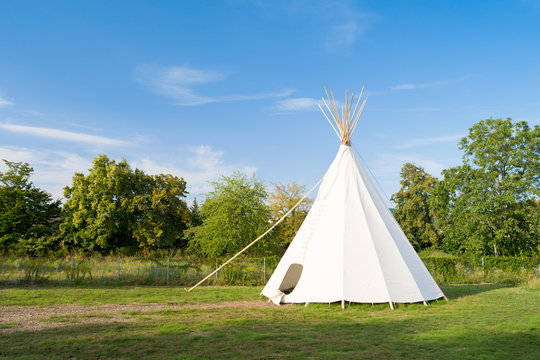
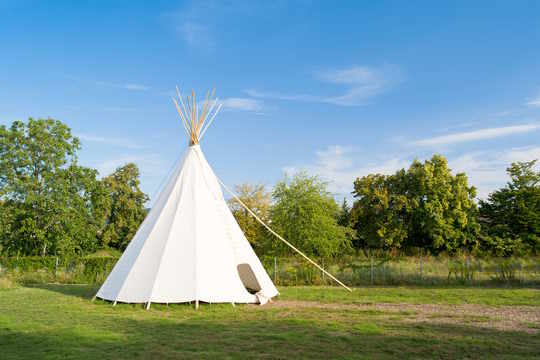
save

diff --git a/components/sections/Prices/tentsData.ts b/components/sections/Prices/tentsData.ts
@@ -1,7 +1,7 @@
 import tent1 from '@/public/images/gallery/tent1.jpg';
 import tipi4 from '@/public/images/tipi4/tipi4_02.jpg';
 import tipi6 from '@/public/images/tipi6/tipi6_05.jpg';
-import tipi8 from '@/public/images/tipi8/tipi8_01.jpg';
+import tipi8 from '@/public/images/tipi8/tipi8_02.jpeg';
 import {StaticImageData} from 'next/image';
 
 export interface CardProps {
@@ -32,7 +32,7 @@ export const tentCards: CardProps[] = [
 			'Cozy 4.5m² tipi perfect for intimate gatherings. Create a magical atmosphere with its unique conical shape and customizable interior.',
 		price: 149,
 		capacity: '4-8',
-		squareMeters: 320,
+		squareMeters: 16,
 		measurements: '4.5m x 4.5m',
 	},
 	{
@@ -42,7 +42,7 @@ export const tentCards: CardProps[] = [
 			'Spacious 6m² tipi ideal for larger celebrations. Its impressive height and roomy interior make it perfect for events and gatherings.',
 		price: 399,
 		capacity: '10-20',
-		squareMeters: 550,
+		squareMeters: 28,
 		measurements: '6m x 6m',
 	},
 	{

diff --git a/components/sections/SectionAboutUs.tsx b/components/sections/SectionAboutUs.tsx
@@ -2,8 +2,11 @@ import Image from 'next/image';
 
 const SectionAboutUs = () => {
 	return (
-		<section id="sectionAboutUs" className="flex justify-center py-20">
-			<div className="flex w-full gap-8 max-w-7xl">
+		<section
+			id="sectionAboutUs"
+			className="flex justify-center py-16 background lg:py-32"
+		>
+			<div className="flex w-full gap-8 container">
 				<div className="flex flex-col items-end w-1/2 gap-4">
 					<h1>About Us</h1>
 					<p className="text-end">
@@ -18,7 +21,7 @@ const SectionAboutUs = () => {
 						event services.
 					</p>
 				</div>
-				<div className="relative w-1/2 h-full">
+				<div className="relative flex-1 h-96">
 					<Image
 						src={`/images/about_us.jpg`}
 						alt="tentssection"

diff --git a/components/sections/Prices/SectionPrices.tsx b/components/sections/Prices/SectionPrices.tsx
@@ -4,7 +4,7 @@ import {tentCards} from './tentsData';
 const SectionPrices = () => {
 	return (
 		<section id="sectionPrices" className="py-16 background lg:py-32">
-			<div className="container grid w-full grid-cols-1 gap-16 px-4 mx-auto md:grid-cols-2 max-w-7xl">
+			<div className="container grid w-full grid-cols-1 gap-6 lg:gap-16 px-4 mx-auto md:grid-cols-2 max-w-7xl">
 				{tentCards.map((tent, index) => (
 					<TentCard key={index} {...tent} />
 				))}

diff --git a/components/sections/Accessories/AccessoriesSection.tsx b/components/sections/Accessories/AccessoriesSection.tsx
@@ -17,9 +17,10 @@ const SectionAccessories = () => {
 	return (
 		<section
 			id="sectionAccessories"
-			className="flex justify-center py-20 !bg-gray-300 background"
+			className="flex justify-center !bg-gray-300 
+			 py-16 background lg:py-32"
 		>
-			<div className="w-full max-w-7xl">
+			<div className="container">
 				<AccessoriesHeader
 					selectedIcon={selectedIcon}
 					onIconSelect={setSelectedIcon}
